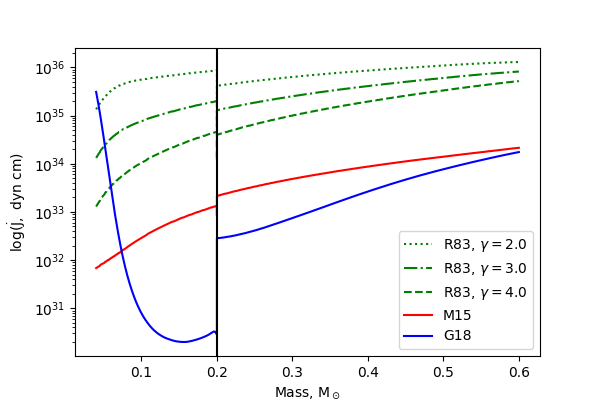
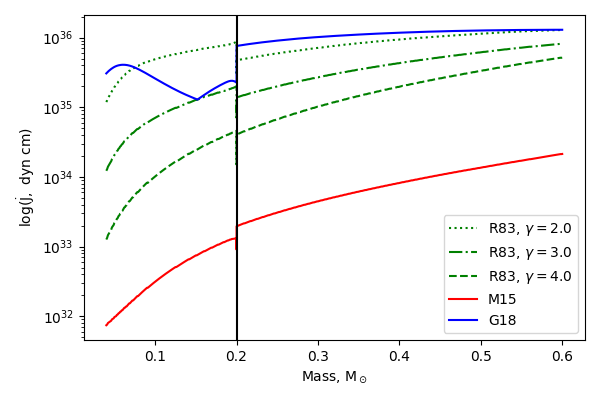
Finished Stu's comments. Needs proofreading still

diff --git a/chapters/introduction.tex b/chapters/introduction.tex
@@ -312,17 +312,16 @@ For long-period CVs, $\alpha = 0.67\pm0.04$ \citep{knigge11}, and equation \ref{
 \subsubsection{The period gap}
 \label{sect:introduction:period gap}
 
-Between periods of around 2-3 hours, there is a dramatic fall in the number of CVs we detect. Volume-limited samples indicate that this is a real effect and not a selection bias \citep{Kolb1998}. However, the origin of this gap in the period is something of an open problem.
+Between periods of around 2-3 hours, there is a dramatic fall in the number of CVs we detect. Volume-limited samples indicate that this is a real effect and not a selection bias \citep{Kolb1998,pala2020}. The origin of this gap in the period distribution is something of an open problem.
 
 Models indicate that long period systems ($P > 3$h) have far higher mass loss rates than short period systems ($P < 2$h) \citep{ritter1985}. This suggests a significant change in braking mechanisms between the two regimes. 
+If this transition is sharp, i.e. magnetic braking suddenly ceases, the donor disconnects from its Roche lobe and is allowed to contract to its equilibrum radius, shutting off mass transfer.
+The system is still subject to gravitational radiation, however, so gradually continues to evolve towards shorter periods. Once the secondary reconnects with its Roche lobe, mass transfer resumes and the system again presents itself as a CV, emerging from the period gap at a $\sim2$hr period \citep{kolb2002}.
 
 The disruption of magnetic braking was proposed early on to explain the period gap \citep{rappaport1983, spruit1983}, and relatively shortly after \citet{kolb1993} showed more quantitatively that a sub-class of purely gravitational braking CV systems does not reproduce the observed population. 
-Historically, the standard evolutionary path of CVs has involved the secondary becoming fully convective which was thought to disrupt the magnetic field and so cease MB \citep{knigge11}, though this mechanism has frequently been questioned. \todo{Gather references}
+The standard evolutionary path of CVs has involved the secondary becoming fully convective which was thought to disrupt the magnetic field and so cease magnetic braking \citep{knigge11}, though this mechanism has frequently been questioned. \todo{Gather references}
+\citet{Davis2008} used population synthesis to demonstrate that, if the period gap is caused by disrupted magnetic braking, this may affect the mass function of quiescent CVs that are moving through the gap. They expect an excess of non-transferring CVs over low mass post-common envelope CVs that emerge from the common envelope phase directly into the period gap. These should form at a predictable rate across $q$, but due to the slow crossing of quiescent CVs, the latter `pile up' in the gap - a detectable effect observed by \citet{zorotovic2011} that lends some credence to disrupted magnetic braking causing the period gap.
 
-It is important to develop diagnostics for the nature of the period gap, and \citet{smith1998} show how spectral analysis could yield an accurate observed mass-radius relation for donor stars in CVs as evidence for MB, though they lacked the observations to apply their method. The mass-radius relation would later be carried out by \citet{knigge11}.
-\citet{Davis2008} used population synthesis to demonstrate that, if the period gap is caused by disrupted MB, this may affect the mass function of quiescent CVs that are moving through the gap. They expect an excess of non-transferring CVs over low mass post-common envelope CVs that emerge from the common envelope phase directly into the period gap. These should form at a predictable rate across $q$, but due to the slow crossing of quiescent CVs, the latter `pile up' in the gap - a detectable effect observed by \citet{zorotovic2011}.
-
-The system is still subject to gravitational radiation, however, so gradually evolves back towards shorter periods. Once the secondary reconnects with its Roche lobe, mass transfer resumes and the system again presents itself as a CV, emerging from the period gap at a $\sim2$hr period \citep{kolb2002}.
 
 \subsubsection{The period minimum, and period bouncer systems}
 \label{sect:introduction:period minimum and bouncers}
@@ -349,20 +348,18 @@ This has been confirmed by \citet{knigge11}, who found that for period bouncer C
 A solid knowledge of exactly how and why CVs lose angular momentum has remained surprisingly elusive for several decades now. Early theories established gravitational waves and magnetic braking as the only two sources of AML \todo{ref}, but attempts to quantify this with evolutionary models \citep{knigge11} and population synthesis models \todo{ref} consistently fall short, as outlined in \S\ref{sect:introduction:AMLMechs}. Gravitational losses are well understood, and have been independantly observed and studied, but the sources and consequences of magnetism in a stellar context is not so easy. 
 
 The spin rate and masses of CV donors is not seen in the singleton stars that are usually used to characterise magnetic braking \citep{rappaport1983,matt2015,garraffo2018a}. 
-In addition, the disruption of magnetic braking is often motivated by the donor transitioning to a fully convective state, but X-ray emission level is a diagnostic of magnetic flux \citep{pevtsov2003}, and \citet{wright2016} found that the X-ray flux of CVs is similar between fully convective and non-convective main-sequence stars, implying a similar magnetic field strength. Furthermore, disagreement between observational and theoretical period gap and minimum locations \citep{knigge11} has left the disrupted MB model an area of active research. 
-\citet{garraffo2018} recently proposed that the magnetic field does not weaken, but rather becomes more complex which reduces the efficiency of MB. This concept is discussed quantitavely in \S\ref{sect:introduction:Garraffo MB prescription}.
+In addition, the disruption of magnetic braking is often motivated by the donor transitioning to a fully convective state, but X-ray emission level is a diagnostic of magnetic flux \citep{pevtsov2003}, and \citet{wright2016} found that the X-ray flux of main sequence stars is similar between fully convective and non-convective main-sequence stars, implying a similar magnetic field strength. Furthermore, disagreement between observational and theoretical period gap and minimum locations \citep{knigge11} has left the disrupted magnetic braking model an area of active research. 
+\citet{garraffo2018} recently proposed that the magnetic field does not weaken, but rather becomes more complex which reduces the efficiency of magnetic braking. This concept is discussed quantitavely in \S\ref{sect:introduction:Garraffo magnetic braking prescription}.
 
 
 \subsection{The missing AML problem}
 
-The evolution of CVs is driven by the donor stars. The orbital period is determined by the mass-radius relationship of the donor under mass loss, and the decay of the orbit should simply result directly from the two braking mechanisms (gravitational and magnetic). Figure~\todo{put in the one from my 2021 paper here} shows the relationship between the donor mass and orbital period, and the single unified CV track can be seen. Stellar evolution models can be built to try and reproduce this track, and indeed at long periods, our understanding of those mechanisms seem robust enough to produce models that satisfy observations. The period gap can, with some manual tweaks, also be reproduced with some accuracy. Unfortunately, at short periods ($\lesssim 2 hours$), the data begin to diverge from models. 
+The evolution of CVs is driven by the donor stars. The orbital period is determined by the mass-radius relationship of the donor under mass loss, and the decay of the orbit should simply result directly from the two braking mechanisms (gravitational and magnetic). Figure~\todo{put in the one from my 2021 paper here} shows the relationship between the donor mass and orbital period, and the single unified CV track can be seen. CV evolution models can be built to try and reproduce this track, and indeed at long periods, our understanding of those mechanisms seem robust enough to produce models that satisfy observations. The period gap can, with some manual tweaks, also be reproduced with some accuracy. Unfortunately, at short periods ($\lesssim 2 hours$), the data begin to diverge from models. 
 
-\S\ref{sect:introduction:Summary of how AML and Mdot drive period evolution} describes how the donor has its mass-radius relation altered by the presence of continued mass loss. The donor is larger than a singleton of the same mass, as the mass loss timescale is comparable to the thermal timescale and the donor is not quite able to maintain thermal equilibrium \citep{knigge11}. The degree of this inflation increases with more mass loss. As mass loss is driven by AML, it follows that a CV donor that has stronger AML will have a larger radius, and therefore sit at a longer period than a CV with weaker AML, altering the gradient of the tracks in Figure~\ref{fig:introduction:Knigge 2011 figure 9} at periods of $\lesssim 3h$. In this way, the shape of the tracks in Figure~\ref{fig:introduction:Knigge 2011 figure 9} is a diagnostic of the form of AML experienced by a CV across its lifetime \citep{knigge11}.
-This also moves the period minimum to longer periods. The period minimum is caused by the donor's $\tau_{therm}$ becoming longer than $\tau_{\dot M}$, and since a faster mass loss will result in a shorter mass loss timescale, this crossover point is moved to higher masses and therefore longer periods. This is compounded by the faster mass loss resulting in more severe bloating of the donor star, so a donor of the same mass will connect to its Roche lobe at longer periods. 
+\S\ref{sect:introduction:Summary of how AML and Mdot drive period evolution} describes how the donor has its mass-radius relation altered by the presence of continued mass loss. The donor is larger than a singleton of the same mass, as the mass loss timescale is comparable to the thermal timescale and the donor is not quite able to maintain thermal equilibrium \citep{knigge11}. The degree of this inflation increases with more rapid mass loss. As mass loss is driven by AML, it follows that a CV donor that has stronger AML will have a larger radius, and therefore sit at a longer period than a CV with weaker AML, altering the gradient of the tracks in Figure~\ref{fig:introduction:Knigge 2011 figure 9} at periods of $\lesssim 3h$. In this way, the shape of the tracks in Figure~\ref{fig:introduction:Knigge 2011 figure 9} is a diagnostic of the form of AML experienced by a CV across its lifetime \citep{knigge11}.
 
-\citet{knigge11} used took observations of donor masses and radii, with masses determined by either eclipse modelling, or the $\epsilon - q$ superhumper relationship, and radii are readily found from equating the donor radius to the expected Roche lobe radius. 
-With donor properties for masses $\sim 0.1 - 1 M_\odot$, an unknown additional source of AML was added to their models, simply scaled relative to gravitational braking. This source is motivated by the disagreement between data and the model that omits this source. \citet{knigge11} find that the best-fit model to their data uses an excess braking that is $2.47 \times \dot J_{GR}$, where $\dot J_{GR}$ is AML due to gravity. Figure~\ref{fig:introduction:Knigge 2011 figure 9} is reproduced from their work, and shows the significant improvement in agreement with data.
-
+\citet{knigge11} used observations of donor masses and radii and attempted to recreate the donor evolutionary sequence.
+An unknown additional source of AML was added to their models, simply scaled relative to gravitational braking. This unknown contribution to AML is motivated by the disagreement between data and the model that omits this source. \citet{knigge11} find that the best-fit model to their data uses an excess braking below the period gap that is $2.47 \times \dot J_{GR}$, where $\dot J_{GR}$ is AML due to gravity. Figure~\ref{fig:introduction:Knigge 2011 figure 9} is reproduced from their work, and shows the significant improvement in agreement with data.
 \begin{figure}
     \centering
     \includegraphics[width=\textwidth, trim={0 2cm 0 2cm}]{figures/introduction/Knigge11_fig9.pdf}
@@ -370,13 +367,16 @@ With donor properties for masses $\sim 0.1 - 1 M_\odot$, an unknown additional s
     \label{fig:introduction:Knigge 2011 figure 9}
 \end{figure}
 
-\citet{Pala2017a} used the effective temperatures of the white dwarfs to probe CV evolution. The white dwarf temperature can be enhanced by accretion, so a hotter white dwarf suggests a higher mass transfer rate. This is sensitive to changes in $\dot M$ on short timescales, but still provides a valuable insight. \citet{Pala2017a} compare their white dwarf temperatures (and therefore mass transfer rates, and therefore AML rates) to MESA CV evolutionary tracks, and find that their observed temperatures are poorly described by only gravitational AML, but are more well-fitted by models that includes excess AML equivalent to gravitational losses, i.e. double-strength gravitational AML. Their analysis is useful but not wholly convincing, as the white dwarf temperatures are both quite poorly constrained, and sensitive to short-term variations in accretion rate that are known to occur\todo{cite}. In addition, the scaling of excess AML in relation to gravitational losses is not a free parameter in their analysis, and is only presented in the context of being obviously better by eye, rather than being tailored to the data.
+\citet{Pala2017a} used the effective temperatures of the white dwarfs to probe CV evolution. The white dwarf temperature can be enhanced by accretion, so a hotter white dwarf suggests a higher mass transfer rate. This is sensitive to changes in $\dot M$ on short timescales, but still provides a valuable insight. \citet{Pala2017a} compare their white dwarf temperatures (and therefore mass transfer rates, and therefore AML rates) to MESA CV evolutionary tracks, and find that their observed temperatures are poorly described by only gravitational AML, but are more well-fitted by models that includes excess AML equivalent to gravitational losses, i.e. double-strength gravitational AML. 
 
 The disagreement between theory and observation at short periods indicates that our understanding of AML in this regime is lacking, and a few proposals to rectify this have been suggested.
 
-The obvious solution to the problem of missing AML is that we simply do not understand magnetism well enough to say that it ceases below the period gap. The donor may retain a residual magnetic field strong enough to drive some weaker form of magnetic braking that remains after the bulk of magnetic braking ceases. This is called Residual Magnetic Braking (RMB). Some evidence for RMB has been found in binary population synthesis models that focus on magnetic CVs \citep{belloni2020}. This approach asserts that a strong magnetic field from the white dwarf significantly reduces the effectiveness of magnetic braking by trapping a large fraction of the wind within the system, preventing it from carrying angular momentum away. The models that include this result in a better fit to key CV observables, specifically the orbital period distribution, white dwarf temperature distribution, and space density. While this theory does not apply to CVs in general, as the majority of systems do not have white dwarfs with strong enough magnetic fields, it has been suggested that a similar process could  occur on the donor \citep{garraffo2018}. 
+The obvious solution to the problem of missing AML is that we simply do not understand magnetism well enough to say that it ceases below the period gap. The donor may retain a residual magnetic field strong enough to drive some weaker form of magnetic braking that remains after the bulk of magnetic braking ceases, a.k.a. residual magnetic braking. 
 
-The period gap is frequently attributed to the donor becoming fully convective, and this triggering a large reduction in magnetic field strength. However, observations of field M dwarfs of the same mass, with convective envelopes, are seen with key tracers of magnetism. Specifically, X-ray observations find that the coronal magnetic energy dissipation of fully convective stars is similar to non-convective stars \citep{wright2016}, and Zeeman-Doppler imaging of rapidly rotating M dwarfs indicate that the complexity of surface magnetic fields increases alongside rotation rate (e.g. \citealt{donati2003,donati2009,marsden2011,waite2011,waite2015}). Together, these observations strongly indicate that the disrupted magnetic braking model commonly accepted is ill-motivated, and may be more closely tied to field complexity than field strength \citep{garraffo2018}. If the gap is indeed driven by a sudden increase in field complexity, then it is reasonable to assume that magnetic braking remains significant after the system emerges from the period gap. However, this is not the only explanation for excess AML, and another strong candidate is consequential AML.
+The period gap is frequently attributed to the donor becoming fully convective, and this triggering a large reduction in magnetic field strength. However, observations of field M dwarfs of the same mass, with convective envelopes, are seen with key tracers of magnetism. Specifically, X-ray observations find that the coronal magnetic energy dissipation of fully convective stars is similar to non-convective stars \citep{wright2016}, and Zeeman-Doppler imaging of rapidly rotating M dwarfs indicate that the complexity of surface magnetic fields increases alongside rotation rate (e.g. \citealt{donati2003,donati2009,marsden2011,waite2011,waite2015}). Together, these observations strongly indicate that the disrupted magnetic braking model commonly accepted is ill-motivated, and may be more closely tied to field complexity than field strength \citep{garraffo2018}. If the gap is indeed driven by a sudden increase in field complexity, then it is reasonable to assume that magnetic braking remains significant after the system emerges from the period gap. However, magnetism is not the only possible explanation for excess AML, and another strong candidate is consequential AML. Both of these mechanisms are discussed below.
+
+% Cant think of a good place to put this, so I've cut it
+% Some evidence for AML suppression under strong magnetic fields, though not in the context of the period gap, has been found in binary population synthesis models that focus on magnetic CVs \citep{belloni2020}. The models that include magnetic wind suppression result in a better fit to key CV observables, specifically the orbital period distribution, white dwarf temperature distribution, and space density. 
 
 
 \subsection{Consequential AML}
@@ -404,7 +404,7 @@ Solving this equation gives a critical maximum value of $q < 0.634$. However, un
 \begin{equation}
     \frac{\dot J_{CAML}}{J} = \nu \frac{\dot M_2}{M_2}
 \end{equation}
-Here, $\nu = M_2^2 / (M_1(M_1 + M_2))$ and describes the angular momentum carried by ejected nova material, defined to be teh same as teh white dwarf momentum.
+Here, $\nu = M_2^2 / (M_1(M_1 + M_2))$ and describes the angular momentum carried by ejected nova material, defined to be the same as the white dwarf momentum.
 The right hand side of Equation~\ref{eqn:introduction:CAML stability threshold} is then altered by the increased AML rate.
 \begin{equation}
     \alpha_{ad} = \frac{2}{3} \Bigg( \frac{ln(1+q^{1/3}) - \frac{1}{2}\frac{q^{1/3}}{1+q^{1/3}}}{0.6q^{2/3} + ln(1+q^{1/3})} \Bigg) + 2\nu + \frac{M_2}{M_1 + M_2} - 2
@@ -416,7 +416,9 @@ $\nu$ is altered to a simple function of the white dwarf primary mass,
     \label{eqn:introduction:eCAML nu}
     \nu (M_1) = \frac{C}{M_1}
 \end{equation}
-where $C$ is an arbitrary constant chosen to best reflect observations, and \citep{Schreiber2016} adopt values of $C = 0.3 - 0.4$. The inverse relationship of more CAML at lower white dwarf masses is motivated by lower mass systems being able to retain less nova material, so more can be ejected and so carry more angular momentum. 
+where $C$ is an arbitrary constant chosen to best reflect observations, and \citep{Schreiber2016} adopt values of $C = 0.3 - 0.4$. 
+% The inverse relationship of more CAML at lower white dwarf masses is motivated by lower mass systems being able to retain less nova material, so more can be ejected and so carry more angular momentum. 
+The inverse relationship of more CAML at lower white dwarf masses is motivated by lower mass systems ejecting material at a lower velocity, meaning the binary is immersed in a friction-generating medium for longer and imparting more energy into the ejecta. 
 
 With eCAML, the dynamically unstable region \todo{put in their fig 1+2} is expanded. This has the important effect of making CVs with low-mass white dwarfs prone to dynamically unstable mass transfer, removing them from the CV population -- this simultaneously answers the question of CV white dwarfs being more massive than expected, and also vastly lowers the space density \citep{belloni2018}. Finally, the majority of systems that are now dynamically unstable are short-period CVs, so the observed period distribution is significantly more well-reproduced\todo{point at the Schreiber fig 2 panel}. 
 
@@ -428,13 +430,17 @@ In addition to this, \citet{sparks2021} observed the spectra of CV donors and fo
 \subsection{Magnetic Braking}
 \label{sect:introduction:magnetic braking}
 
-Consider a blob of this charged wind material, moving with some sideways velocity in the plane of the orbit, almost certainly slower than the magnetic field lines. 
-The blob will interact with the field and accelerated to co-rotate with them.
+The M dwarf secondary of a CV will eminate some wind, made up of charged ions, and have some magnetic field which co-rotates with the star.
+Consider a blob of charged wind material, moving with some sideways velocity in the plane of the orbit, almost certainly slower than the magnetic field lines. 
+The blob will interact with the field and be accelerated to co-rotate with them.
 This higher velocity causes it to move outwards, to a higher orbit, where the field lines are moving even faster, accelerating the blob more. 
-The wind then robs the star associated with the magnetic field of rotational angular momentum and its spin rate is slowed. The close proximity of the binary means that tidal effects are strong, and the donor is spun up again by robbing the orbit of angular momentum, reducing their separation and hardening the binary further \citep{verbunt1981}.
+% The wind then robs the secondary star of rotational angular momentum and its spin rate is slowed. 
+As the wind material is accelerated, it exerts a drag force on the magnetic field of the donor and slows its rotation rate.
+The close proximity of the binary means that tidal effects are strong, and the donor is spun up again by robbing the orbit of angular momentum, reducing the binary separation and hardening the binary \citep{verbunt1981}.
 
-As an aside, \citet{wickramasinghe1996} presented theoretical motivation that CVs can have too strong a magnetic field to allow magnetic braking. Open field lines are necessary for wind to escape the system, so too strong a white dwarf magnetic field can trap the ionised gas in-system, suppressing the wind of the secondary. This Magnetic CV subclass is briefly described in \S\ref{sect:introduction:magnetic CVs}.
+As an aside, \citet{wickramasinghe1996} presented theoretical motivation that CVs can have too strong a magnetic field to allow magnetic braking. Open field lines are necessary for wind to escape the system, so too strong a white dwarf magnetic field can trap the ionised gas in-system, suppressing the wind of the secondary. Magnetic CVs are briefly described in \S\ref{sect:introduction:magnetic CVs}.
 
+\todo{Rewrite}
 As the magnetic braking mechanism is a direct consequence of the donor star spinning down, the CV community is able to borrow insights from adjacent fields of study. The majority of M dwarfs experience some form of spin-down under magnetic braking \todo{cite this}, so observations of the magnetic field strengths of singletons should inform the efficacy of magnetic braking in CV binaries\todo{cite this}. Unfortunately, the typical CV rotational period is on the order of a few hours, and singleton M dwarfs are considered extremely fast rotators with periods of a day\todo{cite this}. Observations of singletons simply do not reach to the extremely low mass, rapid rotations that are frequently seen in CVs, so we are forced to rely on extrapolation and theory.
 
 This carries with it some major practical issues. One is that while the broad effects of magnetic fields is relatively easy to intuit, quantitative physical understanding the mechanics and origins of magnetic fields is difficult, involving fluid dynamics, considering interactions with the accretion disc, and magnetism acting on large systems, which quickly become prohibitive to model and is usually handled with one of a variety of recipes. \citealt{knigge11} contains a detailed compilation of some older approaches, but the decade since has seen a few newer methodologies emerge. Here, two recent magnetic braking prescriptions are described in moderate detail: the \citet{matt2015} prescription, and the \citet{garraffo2018a} prescription. For a more complete, detailed summary of the modern understanding of M dwarf magnetic fields refer to \citet{kochukhov2021}. 
@@ -443,34 +449,29 @@ This carries with it some major practical issues. One is that while the broad ef
 \subsubsection{Matt prescription for magnetic torque}
 \label{sect:introduction:matt braking}
 
-In \citet{matt2015}, an empirical prescription is derived that relates the torque felt by a low mass main sequence star to that stars' mass, radius, and Rossby number. The Rossby number is a fluid dynamics term for the ratio between the inertial and Coriolis force terms of the Navier-Stokes equations. A small Rossby number indicates a system dominated by Coriolis effects, and a large Rossby number indicates that centrifugal and inertial forces dominate. The Rossby number of a main sequence star can be calculated from $\Omega$, it's angular rotation rate, and $\tau_{\rm cz}$, the convective turnover timescale.
+In \citet{matt2015}, an empirical prescription is derived that relates the torque felt by a low mass main sequence star to that stars' mass, radius, and Rossby number. The Rossby number is a fluid dynamics term for the ratio between the inertial and Coriolis force terms of the Navier-Stokes equations. A small Rossby number indicates a system dominated by Coriolis effects, and a large Rossby number indicates that centrifugal and inertial forces dominate. The Rossby number of a main sequence star can be calculated from $P_{rot}$, it's rotation period, and $\tau_{\rm cz}$, the convective turnover timescale.
 \begin{equation}
     \label{eqn:introduction:rossby number}
-    {\rm Ro} = (\Omega \cdot \tau_{\rm cz})^{-1}
+    {\rm Ro} = \frac{P_{rot}}{\tau_{\rm cz}}
 \end{equation}
 Through the Rossby number, the effectiveness of magnetic braking is tied to rotation, which is extremely fast in CVs, and stellar mass and age, which affect $\tau_{\rm cz}$.
 
-Their work makes use of observations of stars with masses less than $0.15 - 1.3 M_\odot$ and span ages of $\sim 10^{6-9}$ yrs, that have had their rotation periods measured. This dataset is used to calibrate a theoretically motivated empirical prescription for magnetic braking. There is some evidence for a saturation of magnetic activity below a critical Rossby value (a.k.a. above a critical rotational period) \citep{reiners2009}, where magnetic activity seems to no longer respond to changes in rotation. \citet{matt2015} adopt two generic relationships, 
+\citet{matt2015} make use of observations of stars with masses less than $0.15 - 1.3 M_\odot$ and span ages of $\sim 10^{6-9}$ yrs, that have had their rotation periods measured. This dataset is used to calibrate a theoretically motivated empirical prescription for magnetic braking. There is some evidence for a saturation of magnetic activity below a critical Rossby value (a.k.a. above a critical rotational period) \citep{reiners2009}, where magnetic activity seems to no longer respond to changes in rotation. \citet{matt2015} motivate and adopt two relationships for torque, $T$, modulated by an empirical value, $p$,
 \begin{equation}
-    \bigg(\frac{B_*}{B_\odot}\bigg)^{4m} \bigg(\frac{\dot M_\omega}{\dot M_\odot}\bigg)^{1-2m} = Q \bigg(\frac{\rm Ro_\odot}{\rm Ro} \bigg)^{p}
+    T = -T_0 \bigg( \frac{\tau_{\rm cz}}{\tau_{cz,\odot}} \bigg)^p \bigg( \frac{\Omega_{*}}{\Omega_{\odot}} \bigg)^{p+1} 
 \end{equation}
-in the unsaturated regime, and 
+for the unsaturated regime, and 
 \begin{equation}
-    \bigg(\frac{B_*}{B_\odot}\bigg)^{4m} \bigg(\frac{\dot M_\omega}{\dot M_\odot}\bigg)^{1-2m} = Q \chi^{p}
+    T = -T_0 \chi^p \bigg( \frac{\Omega_*}{\Omega_\odot} \bigg)
 \end{equation}
-in the saturated regime. Here, $M_\omega$ is the global mass outflow rate, $B_*$ is the magnetic field strength at the stellar surface, and $M_\omega$ is the total mass outflow rate. The $m$ exponent is determined by the field geometry and wind acceleration profile, but functionally is a tuning parameter that likely falls in the range of $0.20 < m < 0.25$ \citep{matt2015}. The $p$ exponent encodes the dependence of magnetism on the Rossby number, $\rm Ro$, and is assigned as $p = 2$. $\chi$ is the inverse critical Rossby number for saturation, for which \citet{matt2015} adopt a value of $10$. $Q$ is a generic scale factor that the authors fit to observations.
-
-The authors use these equations to eventually derive the spin rates for main sequence stars at some time $t$ after their initial spin period, $\Omega_i$, 
+in the saturated regime. In both cases, $p$ is assigned as $p = 2$ in order to agree with the most common literature spin-scaling prescription ($T \propto \Omega_*^3$). 
+$\chi$ is the inverse critical Rossby number for saturation, for which \citet{matt2015} adopt a value of $10$.
+The rotation rates of the donor and the sun are $\Omega_{*,\odot}$, and $T_0$ is given by a function of mass and radius,
 \begin{equation}
-    \lim_{\Omega_* \gg \Omega_{\rm sat}} \bigg(\frac{\Omega_*}{\Omega_\odot}\bigg) \rightarrow \bigg(\frac{\tau_{\rm unsat}}{t}\bigg)^{\frac{1}{p}}
+    T_0 = 9.5 \times 10^{30} {\rm erg} \bigg(\frac{R_*}{R_\odot} \bigg) \bigg(\frac{M_*}{M_\odot} \bigg)
 \end{equation}
-\begin{equation}
-    \Omega_* = \Omega_i \cdot e^{-t/\tau_{\rm sat}}
-\end{equation}
-for a rotation period of $\Omega_*$, and the threshold for saturation at $\Omega_{\rm sat}$. The two $\tau$ factors, $\tau_{\rm sat}$ and $\tau_{\rm unsat}$, are the spin-down timescales in the saturated and unsaturated regimes, and $\tau_{\rm sat} \ll \tau_{\rm unsat}$.
 
 The authors take observations of two clusters, the $\sim 5$ Myr old ONC cluster and the $\sim 580$ Myr old Praesepe cluster, and use the first as initial conditions and the second as target distribution to reproduce. Figure~\ref{fig:introduction:Matt 2015 figure 2} is taken from \citet{matt2015}, and compares the initial and final conditions of their synthetic cluster model compared to these two boundary conditions. During the first few tens of Myrs of this model, the stars in the synthetic cluster are spun up as they contract, lowering their periods by factors of $\sim 5-10$. After this initial phase, which is much shorter than the spin down timescales, the more long-term spin evolution begins.
-
 \begin{figure}[!tbp]
     \centering
     \begin{minipage}[b]{\textwidth}
@@ -487,24 +488,25 @@ The authors take observations of two clusters, the $\sim 5$ Myr old ONC cluster 
 
 The agreement between the synthetic cluster and the Praesepe cluster at 574 Mrys is impressive. Above $\sim 0.8 M_\odot$, stars converge on a single narrow mass - period track just as is seen in the observations, and the large scatter below $\sim 0.8 M_\odot$ is also reproduced. Also, just as is seen in the cluster observations of Praesepe, the fastest rotators are those with the lowest masses. Both of these features arise from the transition from saturated braking, to unsaturated braking \citep{matt2015}. 
 
-At formation, almost all stars are experiencing saturated magnetic braking. The single narrow track arises from higher mass stars spinning down faster than lower mass stars, bringing them down to the much less efficient unsaturated braking regime sooner. The pile-up of systems then produces the narrow track. The mass dependancy of this track comes from the fact that $\tau_{unsat}$ is shorter for lower mass stars.
+At formation, almost all stars are experiencing saturated magnetic braking. The single narrow track arises from higher mass stars spinning down faster than lower mass stars, moving them off the much less efficient unsaturated braking regime sooner. The pile-up of systems then produces the narrow track. The mass dependancy of this track comes from the fact that spin-down timescale in the saturated regime is shorter for lower mass stars.
 The broad population of low mass rapid rotators is a direct result of the broad initial conditions, which span an order of magnitude themselves, and the longer spin-down time of lower mass stars in the saturated regime allowing them to remain at high rotation rates for longer. 
 
-However, this model does fail in a few key respects. In the right panel of Figure~\ref{fig:introduction:Matt 2015 figure 2}, a small population of very slow rotators can be seen at $\sim 0.4 M_\odot$. The slower rotation rates of these stars suggests an alternative spin-down mechanism. The inverse problem is seen at $\sim 0.7 M_\odot$, where a handful of stars are seen rotating {\it faster} than predicted by any of the synthetic cluster stars, suggesting that magnetic braking is not as effective in their case.
+However, this model does fail in a few key respects. In the bottom panel of Figure~\ref{fig:introduction:Matt 2015 figure 2}, a small population of very slow rotators can be seen at $\sim 0.4 M_\odot$. The slower rotation rates of these stars suggests an alternative spin-down mechanism. The inverse problem is seen at $\sim 0.7 M_\odot$, where a handful of stars are seen rotating {\it faster} than predicted by any of the synthetic cluster stars, suggesting that magnetic braking is not as effective in their case.
 More importantly for the CV field, the parameter space of CVs is completely uncovered, as CVs have rotation periods of $< 0.2$ days on the high end, and the systems that this work concerns have periods of $\lesssim 0.07$ days. While this would firmly place CVs in the saturated regime, there is evidence of a `supersaturated' regime at extreme rotation periods that may be relevant to CV donors \citep{James2000, Wright2011, Argiroffi2016}. This possibility is also noted by \citet{Gossage2021} when outlining best practice use of this prescription in the stellar evolution code MESA, though the subject is not a settled matter and competing evidence for the {\it lack} of supersaturation has been reported by \citet{jeffries2011}.
 
 
 \subsubsection{Garraffo prescription for magnetic torque}
-\label{sect:introduction:Garraffo MB prescription}
+\label{sect:introduction:Garraffo magnetic braking prescription}
 
-The \citet{garraffo2018a} model considers the morphology of the magnetic field to also be important the the strength of magnetic braking, based on the work by \citet{garraffo2015}. The primary justification for this inclusion is observations of open clusters of a known age, where a bimodality is seen in the rotation rates of stars of similar masses\todo{Cite skumanich gap}. Some stars appear to be fast rotators, and some are slow rotators, and there is a dearth of systems between the two. 
-Previous attempts to model this bimodality have relied on a random, unexplained transition between an efficient braking state, and an inefficient braking state \citep{spada2011,reiners2012, gallet2013}, and \citet{garraffo2018a} expand on this by offering a shift in magnetic field morphology as the underlying trigger.
+The \citet{garraffo2018a} model considers the morphology of the magnetic field to also be important to the strength of magnetic braking, based on the work by \citet{garraffo2015}. The primary justification for this inclusion is observations of open clusters of a known age, where a bimodality is seen in the rotation rates of stars of similar masses. Some stars appear to be fast rotators, and some are slow rotators, and there is a dearth of systems between the two. 
+Previous attempts to model this bimodality have relied on an unexplained transition between an efficient braking state, and an inefficient braking state \citep{spada2011,reiners2012, gallet2013}, and \citet{garraffo2018a} expand on this by offering a shift in magnetic field morphology as the underlying trigger.
 
-Their formalisation of this is based on two assumptions. They assume that stars with the dipolar component of the magnetic field dominating  follow a known spin-down law, with a mass dependence reflecting $\tau_{\rm cz}$\todo{cite Skumanich}. Second, they assume that there is some relationship between field morphology and stellar spin rate. Specifically, that stars rotating more rapidly have more complex magnetic fields. This is formalised via an AML rate, $\dot J$,
+Their formalisation of this is based on two assumptions. They assume that stars with the dipolar component of the magnetic field dominating  follow a known spin-down law, with a mass dependence reflecting $\tau_{\rm cz}$ \citep{skumanich1972}. Second, they assume that there is some relationship between field morphology and stellar spin rate. Specifically, that stars rotating more rapidly have more complex magnetic fields. This is formalised via an AML rate, $\dot J$,
 \begin{equation}
     \dot J = \dot J_{\rm dipole}Q_J(n)
 \end{equation}
-where $\dot J_{\rm dipole}$ is the dipole loss under the Skumanich law, $\dot J_{\rm dipole} \propto \Omega^3 \tau$. $Q_J$ is a modulating factor that encapsulates the field complexity at the stellar surface, and is controlled by the complexity factor, $n$, which has its own prescription. \citet{garraffo2016} derive an equation for $Q_J$, based on fitting the results of simulations with varying field complexities.\todo{Explain the model, and the origin of these numbers before reporting the relationship}
+where $\dot J_{\rm dipole}$ is the dipole loss under the Skumanich law, $\dot J_{\rm dipole} \propto \Omega^3 \tau_{\rm cz}$. $Q_J$ is a modulating factor that encapsulates the field complexity at the stellar surface, and is controlled by the complexity factor, $n$, which has its own prescription. \citet{garraffo2016} derive an equation for $Q_J$, based on fitting the results of simulations with varying field complexities.
+\todo{Explain the model, and the origin of these numbers before reporting the relationship}
 \begin{equation}
     \label{eqn:introduction:garraffo complexity modulation}
     Q_J(n) = 4.05 e^{-1.4n} + \frac{n-1}{60Bn}
@@ -516,15 +518,14 @@ Where $B$ is the magnetic field strength at the stellar surface. As the second t
     \label{eqn:introduction:garraffo field complexity}
     n = 1 + \frac{0.02}{\rm Ro} + 2 {\rm Ro}
 \end{equation}
-based on observations of open clusters. The three terms reflect three aspects of the magnetic braking model - the minimum complexity is defined as $n \equiv 1$, the first factor encodes stars with small $\rm Ro$ having large $n$ (e.g. young, fast rotators), and the third term gives stars with large $\rm Ro$ similarly large $n$. 
-This prescription means that the AML of a star is purely a function of its Rossby number, c.f. Equation~\ref{eqn:introduction:rossby number}.
+based on observations of open clusters. The three terms reflect three aspects of the magnetic braking model - the minimum complexity is defined as $n \equiv 1$, the first factor encodes stars with small $\rm Ro$ having large $n$ (e.g. young, fast rotators), and the third term gives stars with large $\rm Ro$ similarly large $n$ to explain the observed population of old rapid rotators that appear to have experienced minimal spin-down \citep{vanSaders2016}. 
+This prescription explains the AML of a star as purely a function of its Rossby number.
 
 Similarly to \citet{matt2015}, \citet{garraffo2018a} run a population synthesis model to compare to observations using initial conditions taken from the 13 Myr old h Persei cluster \citep{moraux2013}, but the authors show that differences between alternative initial conditions do not survive longer than 200 Myrs. Observations of stellar rotation periods and colour from several clusters with known ages are then compared to the synthetic population.
 
 The resulting distribution does recover the Skumanich bifurcation observed in open clusters, reproducing the fast and slow rotating populations and the gap between them, though the large uncertainty in the age of the cluster does introduce some discrepancy. 
-In addition, the synthetic cluster does not consider the effects of close binary stars, which will affect the spin-down rate through tidal effects. As the comparison to data is done with color, filtering out binaries is difficult. However, this effect is ignored by the author, as there is evidence that the binary fraction in open clusters is low \citep{meibom2007}.
+In addition, the synthetic cluster does not consider the effects of close binary stars, which will affect the spin-down rate through tidal effects. However, this effect is ignored by the author, as there is evidence that the binary fraction in open clusters is low \citep{meibom2007}.
 The mass dependency of this track is also reproduced by the model, and Figure~\ref{fig:introduction:garraffo 2018a fig 4}.
-
 \begin{figure}
     \centering
     \includegraphics[width=0.8\textwidth, trim={0 5cm 0 5cm}]{figures/introduction/garraffo2018_M37_346_hPer.pdf}
@@ -532,7 +533,7 @@ The mass dependency of this track is also reproduced by the model, and Figure~\r
     \label{fig:introduction:garraffo 2018a fig 4}
 \end{figure}
 
-The \citet{garraffo2018a} prescription is simpler in concept than the \citet{matt2015} prescription, and both prescriptions perform well. However, neither formulation covers the parameter space of CV donors, and both are semi-empirical with some arbitrary decisions made in order to fit data. This makes both approaches highly vulnerable to extrapolation errors and difficult to trust in the context of CV evolution, especially in the short period regime.
+The \citet{garraffo2018a} prescription is simpler in concept than the \citet{matt2015} prescription, and both prescriptions perform well. However, neither formulation covers the parameter space of CV donors, and both are semi-empirical with some arbitrary decisions made in order to fit open cluster data. This makes both approaches highly vulnerable to extrapolation errors and difficult to trust in the context of CV evolution, especially in the short period regime.
 
 
 \subsubsection{Comparisons to the Rappaport, Verbundt and Joss model}
@@ -546,12 +547,12 @@ Note that in the specific case of CVs, period and radius are synonymous with one
 
 \begin{figure}
     \centering
-    \includegraphics[width=\textwidth, trim={1cm 0 0 0}]{figures/introduction/rappaport_matt_magbraking.png}
-    \caption{Showing the AML rates, $\dot J$, of three magnetic braking prescriptions, applied to the masses, radii, and spin periods of the `standard' CV donor track of \citet{knigge11}. The vertical black line shows the mass at which \citet{knigge11} enforces the period gap to occur. {\bf Green lines} show the \citet{rappaport1983} magnetic braking prescription, which is the default used in MESA \citep{Paxton_2015}. The {\bf red line} shows the \citet{matt2015} prescription.}
+    \includegraphics[width=\textwidth, trim={1cm 0 0 0}]{figures/introduction/rappaport_garraffo_matt_magbraking.png}
+    \caption{Showing the AML rates, $\dot J$, of three magnetic braking prescriptions, applied to the masses, radii, and spin periods of the `standard' CV donor track of \citet{knigge11}. The vertical black line shows the mass at which \citet{knigge11} enforces the period gap to occur. {\bf Green lines} show the \citet{rappaport1983} magnetic braking prescription, which is the default used in MESA \citep{Paxton_2015}. The {\bf red line} shows the \citet{matt2015} prescription, and the {\bf blue line} show the \citet{garraffo2018a} prescription.}
     \label{fig:introduction:rappaport garraffo matt magnetic braking}
 \end{figure}
 
-Figure~\ref{fig:introduction:rappaport garraffo matt magnetic braking} shows how the \citet{matt2015} magnetic braking prescription compares to the default MESA mabgnetic braking prescription, from \citet{rappaport1983}. 
+Figure~\ref{fig:introduction:rappaport garraffo matt magnetic braking} shows how the \citet{matt2015} magnetic braking prescription compares to the default MESA mabgnetic braking prescription, from \citet{rappaport1983}. The turning point in the \citet{garraffo2018a} at $\sim 0.15 M_\odot$ is due to the imposed limit of $n < 7$ being reached.
 
 The differences between the three prescriptions is clear in both the overall strength of the prescriptions, but also in how they evolve with mass. All the prescriptions shown decrease at lower masses, but at different rates. In the context of CV evolution, a different dropoff rates of magnetic braking would alter the shape of the donor mass-radius sequence, so observations of CV donors should be able to allow us to evaluate the effectiveness of different braking prescriptions.
 
@@ -559,3 +560,7 @@ The differences between the three prescriptions is clear in both the overall str
 
 \section{This work}
 \label{sect:introduction:this work}
+
+The primary focus of this work is in expanding the sample of well-characterised CV donors, which remains small (less than 40 systems in total). While this sample is augmented by the large number of donors characterised using the superhump excess technique (\S\ref{sect:introduction:SU UMa}), eclipse modelled systems are preferable due to the small number of robust assumptions that need to be made. The specific focus is on characterising systems with short periods, and therefore low mass donors, in attempt to increase the number of period bouncing systems.
+
+The secondary goal is then to take this larger sample, and begin to perform comparisons to CV evolutionary models below the period gap. By comparing observed data with the predicted donor masses and radii across the range of periods, the long-term baseline AML rate can be inferred for a given system. As these short-period systems are expected to only evolve under gravitational braking, but are known to experience some excess AML above this, various empirical prescriptions for excess AML as functions of the CV system parameters can be built and serve as a diagnostic for the physical motivation of the excess AML.
